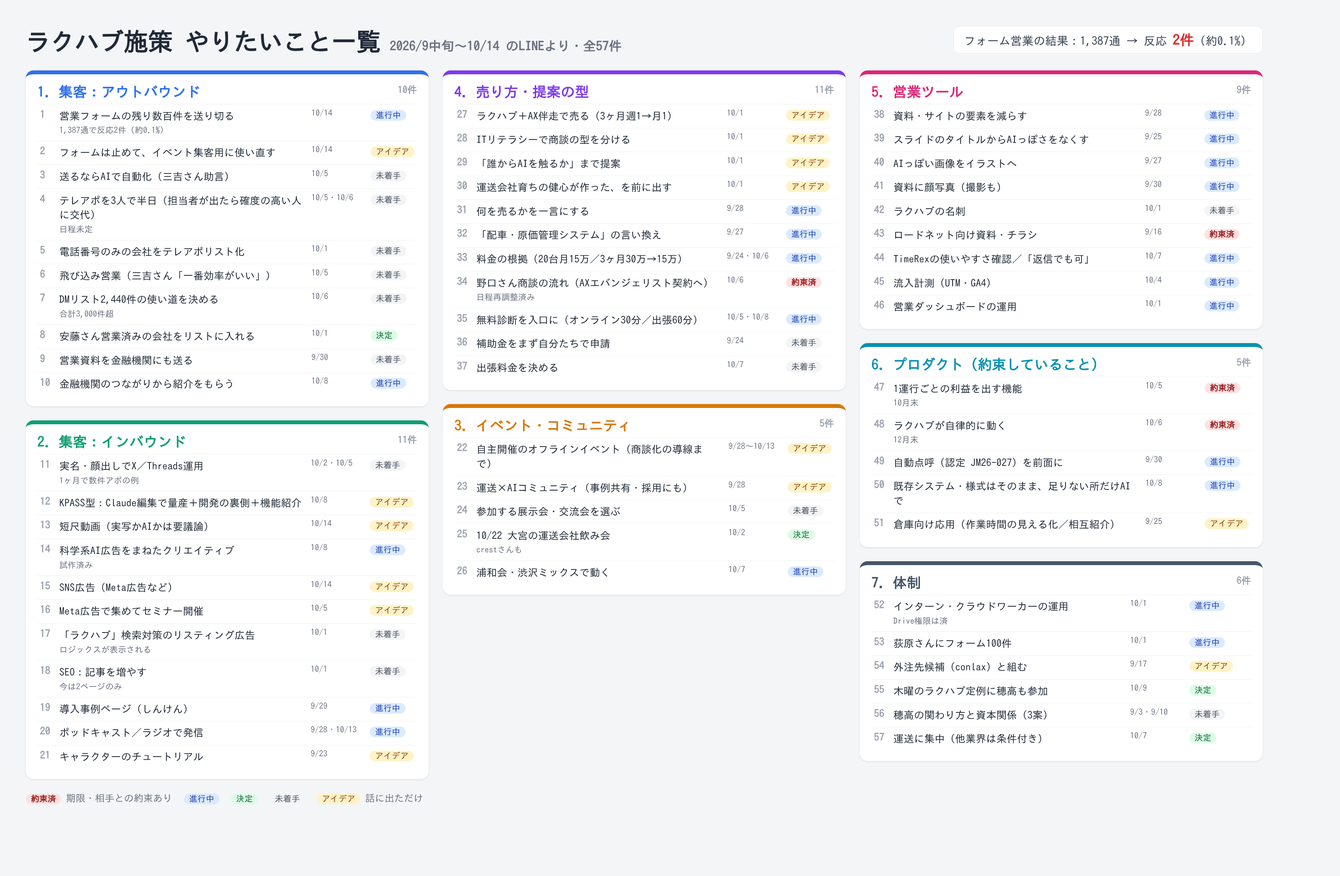
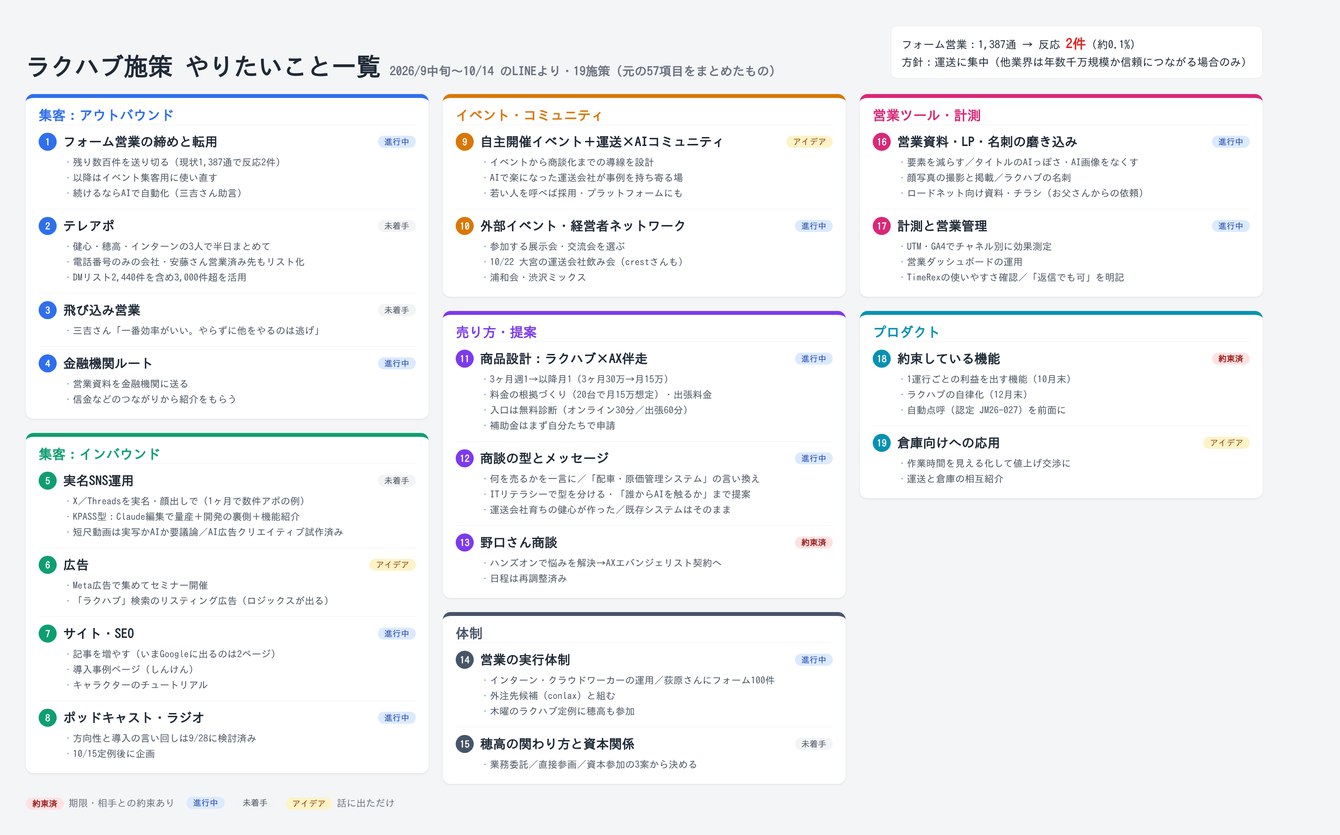
Regroup Rakuhub list into 19 initiatives with details as notes
Claude-Session: https://claude.ai/code/session_01QHjPwhtW9kRAS6qp3uVK7k

diff --git a/rakuhub-list/list.html b/rakuhub-list/list.html
@@ -1,16 +1,18 @@
 <!doctype html><meta charset=utf-8><style>
-*{box-sizing:border-box;margin:0}body{font-family:"IPAGothic","IPAゴシック",sans-serif;background:#f4f5f7;color:#1f2937;padding:40px;width:2000px}
-header{display:flex;justify-content:space-between;align-items:flex-end;margin-bottom:26px}h1{font-size:38px}h1 small{font-size:20px;color:#6b7280;margin-left:14px}
-.kpi{font-size:18px;color:#374151;background:#fff;border:1px solid #e5e7eb;border-radius:10px;padding:10px 16px}.kpi b{color:#dc2626;font-size:22px}
+*{box-sizing:border-box;margin:0;padding:0}body{font-family:"IPAGothic",sans-serif;background:#f4f5f7;color:#1f2937;padding:40px;width:2000px}
+header{display:flex;justify-content:space-between;align-items:flex-end;margin-bottom:24px}h1{font-size:38px}h1 small{font-size:19px;color:#6b7280;margin-left:14px}
+.kpi{font-size:17px;background:#fff;border:1px solid #e5e7eb;border-radius:10px;padding:10px 16px;line-height:1.6}.kpi b{color:#dc2626;font-size:21px}
 .grid{display:grid;grid-template-columns:repeat(3,1fr);gap:22px;align-items:start}.col{display:flex;flex-direction:column;gap:22px}
-section{background:#fff;border-radius:12px;border-top:6px solid var(--c);box-shadow:0 1px 3px rgba(0,0,0,.08);padding:16px 18px}
-h2{font-size:22px;color:var(--c);display:flex;justify-content:space-between;margin-bottom:8px}h2 span{font-size:15px;color:#9ca3af}
-table{width:100%;border-collapse:collapse;font-size:16px}td{padding:7px 4px;border-top:1px solid #f0f1f3;vertical-align:top}
-.n{width:30px;color:#9ca3af;font-weight:bold}.t{line-height:1.4}.m{font-size:13px;color:#6b7280;margin-top:2px}.d{width:92px;font-size:13px;color:#6b7280;white-space:nowrap}
-.s{display:inline-block;font-size:13px;padding:2px 8px;border-radius:99px;white-space:nowrap}
-.done{background:#dcfce7;color:#166534}.doing{background:#dbeafe;color:#1e40af}.todo{background:#f3f4f6;color:#4b5563}.idea{background:#fef3c7;color:#92400e}.must{background:#fee2e2;color:#991b1b;font-weight:bold}
-footer{margin-top:22px;font-size:15px;color:#6b7280;display:flex;gap:18px}
-</style><header><h1>ラクハブ施策 やりたいこと一覧<small>2026/9中旬〜10/14 のLINEより・全57件</small></h1>
-<div class=kpi>フォーム営業の結果：1,387通 → 反応 <b>2件</b>（約0.1%）</div></header>
-<div class=grid><div class=col><section style="--c:#2f6fed"><h2>1. 集客：アウトバウンド<span>10件</span></h2><table><tr><td class=n>1</td><td class=t>営業フォームの残り数百件を送り切る<div class=m>1,387通で反応2件（約0.1%）</div></td><td class=d>10/14</td><td><span class="s doing">進行中</span></td></tr><tr><td class=n>2</td><td class=t>フォームは止めて、イベント集客用に使い直す</td><td class=d>10/14</td><td><span class="s idea">アイデア</span></td></tr><tr><td class=n>3</td><td class=t>送るならAIで自動化（三吉さん助言）</td><td class=d>10/5</td><td><span class="s todo">未着手</span></td></tr><tr><td class=n>4</td><td class=t>テレアポを3人で半日（担当者が出たら確度の高い人に交代）<div class=m>日程未定</div></td><td class=d>10/5・10/6</td><td><span class="s todo">未着手</span></td></tr><tr><td class=n>5</td><td class=t>電話番号のみの会社をテレアポリスト化</td><td class=d>10/1</td><td><span class="s todo">未着手</span></td></tr><tr><td class=n>6</td><td class=t>飛び込み営業（三吉さん「一番効率がいい」）</td><td class=d>10/5</td><td><span class="s todo">未着手</span></td></tr><tr><td class=n>7</td><td class=t>DMリスト2,440件の使い道を決める<div class=m>合計3,000件超</div></td><td class=d>10/6</td><td><span class="s todo">未着手</span></td></tr><tr><td class=n>8</td><td class=t>安藤さん営業済みの会社をリストに入れる</td><td class=d>10/1</td><td><span class="s done">決定</span></td></tr><tr><td class=n>9</td><td class=t>営業資料を金融機関にも送る</td><td class=d>9/30</td><td><span class="s todo">未着手</span></td></tr><tr><td class=n>10</td><td class=t>金融機関のつながりから紹介をもらう</td><td class=d>10/8</td><td><span class="s doing">進行中</span></td></tr></table></section><section style="--c:#0e9f6e"><h2>2. 集客：インバウンド<span>11件</span></h2><table><tr><td class=n>11</td><td class=t>実名・顔出しでX／Threads運用<div class=m>1ヶ月で数件アポの例</div></td><td class=d>10/2・10/5</td><td><span class="s todo">未着手</span></td></tr><tr><td class=n>12</td><td class=t>KPASS型：Claude編集で量産＋開発の裏側＋機能紹介</td><td class=d>10/8</td><td><span class="s idea">アイデア</span></td></tr><tr><td class=n>13</td><td class=t>短尺動画（実写かAIかは要議論）</td><td class=d>10/14</td><td><span class="s idea">アイデア</span></td></tr><tr><td class=n>14</td><td class=t>科学系AI広告をまねたクリエイティブ<div class=m>試作済み</div></td><td class=d>10/8</td><td><span class="s doing">進行中</span></td></tr><tr><td class=n>15</td><td class=t>SNS広告（Meta広告など）</td><td class=d>10/14</td><td><span class="s idea">アイデア</span></td></tr><tr><td class=n>16</td><td class=t>Meta広告で集めてセミナー開催</td><td class=d>10/5</td><td><span class="s idea">アイデア</span></td></tr><tr><td class=n>17</td><td class=t>「ラクハブ」検索対策のリスティング広告<div class=m>ロジックスが表示される</div></td><td class=d>10/1</td><td><span class="s todo">未着手</span></td></tr><tr><td class=n>18</td><td class=t>SEO：記事を増やす<div class=m>今は2ページのみ</div></td><td class=d>10/1</td><td><span class="s todo">未着手</span></td></tr><tr><td class=n>19</td><td class=t>導入事例ページ（しんけん）</td><td class=d>9/29</td><td><span class="s doing">進行中</span></td></tr><tr><td class=n>20</td><td class=t>ポッドキャスト／ラジオで発信</td><td class=d>9/28・10/13</td><td><span class="s doing">進行中</span></td></tr><tr><td class=n>21</td><td class=t>キャラクターのチュートリアル</td><td class=d>9/23</td><td><span class="s idea">アイデア</span></td></tr></table></section></div><div class=col><section style="--c:#7c3aed"><h2>4. 売り方・提案の型<span>11件</span></h2><table><tr><td class=n>27</td><td class=t>ラクハブ＋AX伴走で売る（3ヶ月週1→月1）</td><td class=d>10/1</td><td><span class="s idea">アイデア</span></td></tr><tr><td class=n>28</td><td class=t>ITリテラシーで商談の型を分ける</td><td class=d>10/1</td><td><span class="s idea">アイデア</span></td></tr><tr><td class=n>29</td><td class=t>「誰からAIを触るか」まで提案</td><td class=d>10/1</td><td><span class="s idea">アイデア</span></td></tr><tr><td class=n>30</td><td class=t>運送会社育ちの健心が作った、を前に出す</td><td class=d>10/1</td><td><span class="s idea">アイデア</span></td></tr><tr><td class=n>31</td><td class=t>何を売るかを一言にする</td><td class=d>9/28</td><td><span class="s doing">進行中</span></td></tr><tr><td class=n>32</td><td class=t>「配車・原価管理システム」の言い換え</td><td class=d>9/27</td><td><span class="s doing">進行中</span></td></tr><tr><td class=n>33</td><td class=t>料金の根拠（20台月15万／3ヶ月30万→15万）</td><td class=d>9/24・10/6</td><td><span class="s doing">進行中</span></td></tr><tr><td class=n>34</td><td class=t>野口さん商談の流れ（AXエバンジェリスト契約へ）<div class=m>日程再調整済み</div></td><td class=d>10/6</td><td><span class="s must">約束済</span></td></tr><tr><td class=n>35</td><td class=t>無料診断を入口に（オンライン30分／出張60分）</td><td class=d>10/5・10/8</td><td><span class="s doing">進行中</span></td></tr><tr><td class=n>36</td><td class=t>補助金をまず自分たちで申請</td><td class=d>9/24</td><td><span class="s todo">未着手</span></td></tr><tr><td class=n>37</td><td class=t>出張料金を決める</td><td class=d>10/7</td><td><span class="s todo">未着手</span></td></tr></table></section><section style="--c:#d97706"><h2>3. イベント・コミュニティ<span>5件</span></h2><table><tr><td class=n>22</td><td class=t>自主開催のオフラインイベント（商談化の導線まで）</td><td class=d>9/28〜10/13</td><td><span class="s idea">アイデア</span></td></tr><tr><td class=n>23</td><td class=t>運送×AIコミュニティ（事例共有・採用にも）</td><td class=d>9/28</td><td><span class="s idea">アイデア</span></td></tr><tr><td class=n>24</td><td class=t>参加する展示会・交流会を選ぶ</td><td class=d>10/5</td><td><span class="s todo">未着手</span></td></tr><tr><td class=n>25</td><td class=t>10/22 大宮の運送会社飲み会<div class=m>crestさんも</div></td><td class=d>10/2</td><td><span class="s done">決定</span></td></tr><tr><td class=n>26</td><td class=t>浦和会・渋沢ミックスで動く</td><td class=d>10/7</td><td><span class="s doing">進行中</span></td></tr></table></section></div><div class=col><section style="--c:#db2777"><h2>5. 営業ツール<span>9件</span></h2><table><tr><td class=n>38</td><td class=t>資料・サイトの要素を減らす</td><td class=d>9/28</td><td><span class="s doing">進行中</span></td></tr><tr><td class=n>39</td><td class=t>スライドのタイトルからAIっぽさをなくす</td><td class=d>9/25</td><td><span class="s doing">進行中</span></td></tr><tr><td class=n>40</td><td class=t>AIっぽい画像をイラストへ</td><td class=d>9/27</td><td><span class="s doing">進行中</span></td></tr><tr><td class=n>41</td><td class=t>資料に顔写真（撮影も）</td><td class=d>9/30</td><td><span class="s doing">進行中</span></td></tr><tr><td class=n>42</td><td class=t>ラクハブの名刺</td><td class=d>10/1</td><td><span class="s todo">未着手</span></td></tr><tr><td class=n>43</td><td class=t>ロードネット向け資料・チラシ</td><td class=d>9/16</td><td><span class="s must">約束済</span></td></tr><tr><td class=n>44</td><td class=t>TimeRexの使いやすさ確認／「返信でも可」</td><td class=d>10/7</td><td><span class="s doing">進行中</span></td></tr><tr><td class=n>45</td><td class=t>流入計測（UTM・GA4）</td><td class=d>10/4</td><td><span class="s doing">進行中</span></td></tr><tr><td class=n>46</td><td class=t>営業ダッシュボードの運用</td><td class=d>10/1</td><td><span class="s doing">進行中</span></td></tr></table></section><section style="--c:#0891b2"><h2>6. プロダクト（約束していること）<span>5件</span></h2><table><tr><td class=n>47</td><td class=t>1運行ごとの利益を出す機能<div class=m>10月末</div></td><td class=d>10/5</td><td><span class="s must">約束済</span></td></tr><tr><td class=n>48</td><td class=t>ラクハブが自律的に動く<div class=m>12月末</div></td><td class=d>10/6</td><td><span class="s must">約束済</span></td></tr><tr><td class=n>49</td><td class=t>自動点呼（認定 JM26-027）を前面に</td><td class=d>9/30</td><td><span class="s doing">進行中</span></td></tr><tr><td class=n>50</td><td class=t>既存システム・様式はそのまま、足りない所だけAIで</td><td class=d>10/8</td><td><span class="s doing">進行中</span></td></tr><tr><td class=n>51</td><td class=t>倉庫向け応用（作業時間の見える化／相互紹介）</td><td class=d>9/25</td><td><span class="s idea">アイデア</span></td></tr></table></section><section style="--c:#475569"><h2>7. 体制<span>6件</span></h2><table><tr><td class=n>52</td><td class=t>インターン・クラウドワーカーの運用<div class=m>Drive権限は済</div></td><td class=d>10/1</td><td><span class="s doing">進行中</span></td></tr><tr><td class=n>53</td><td class=t>荻原さんにフォーム100件</td><td class=d>10/1</td><td><span class="s doing">進行中</span></td></tr><tr><td class=n>54</td><td class=t>外注先候補（conlax）と組む</td><td class=d>9/17</td><td><span class="s idea">アイデア</span></td></tr><tr><td class=n>55</td><td class=t>木曜のラクハブ定例に穂高も参加</td><td class=d>10/9</td><td><span class="s done">決定</span></td></tr><tr><td class=n>56</td><td class=t>穂高の関わり方と資本関係（3案）</td><td class=d>9/3・9/10</td><td><span class="s todo">未着手</span></td></tr><tr><td class=n>57</td><td class=t>運送に集中（他業界は条件付き）</td><td class=d>10/7</td><td><span class="s done">決定</span></td></tr></table></section></div></div>
-<footer><span><span class="s must">約束済</span> 期限・相手との約束あり</span><span><span class="s doing">進行中</span></span><span><span class="s done">決定</span></span><span><span class="s todo">未着手</span></span><span><span class="s idea">アイデア</span> 話に出ただけ</span></footer>
+section{background:#fff;border-radius:12px;border-top:6px solid var(--c);box-shadow:0 1px 3px rgba(0,0,0,.08);padding:16px 20px 6px}
+h2{font-size:21px;color:var(--c);margin-bottom:4px}
+.it{padding:12px 0;border-top:1px solid #eef0f2}.hd{display:flex;align-items:center;gap:10px}
+.n{background:var(--c);color:#fff;border-radius:50%;width:28px;height:28px;display:inline-flex;align-items:center;justify-content:center;font-size:15px;font-weight:bold;flex:none}
+.t{font-size:20px;font-weight:bold;flex:1}
+ul{margin:6px 0 0 38px;font-size:15px;color:#4b5563;line-height:1.6;list-style:none}li::before{content:"・";color:#9ca3af}
+.s{font-size:13px;padding:3px 10px;border-radius:99px;white-space:nowrap}
+.doing{background:#dbeafe;color:#1e40af}.todo{background:#f3f4f6;color:#4b5563}.idea{background:#fef3c7;color:#92400e}.must{background:#fee2e2;color:#991b1b;font-weight:bold}
+footer{margin-top:20px;font-size:15px;color:#6b7280;display:flex;gap:18px;align-items:center}
+</style><header><h1>ラクハブ施策 やりたいこと一覧<small>2026/9中旬〜10/14 のLINEより・19施策（元の57項目をまとめたもの）</small></h1>
+<div class=kpi>フォーム営業：1,387通 → 反応 <b>2件</b>（約0.1%）<br>方針：運送に集中（他業界は年数千万規模か信頼につながる場合のみ）</div></header>
+<div class=grid><div class=col><section style="--c:#2f6fed"><h2>集客：アウトバウンド</h2><div class=it><div class=hd><span class=n>1</span><span class=t>フォーム営業の締めと転用</span><span class="s doing">進行中</span></div><ul><li>残り数百件を送り切る（現状1,387通で反応2件）</li><li>以降はイベント集客用に使い直す</li><li>続けるならAIで自動化（三吉さん助言）</li></ul></div><div class=it><div class=hd><span class=n>2</span><span class=t>テレアポ</span><span class="s todo">未着手</span></div><ul><li>健心・穂高・インターンの3人で半日まとめて</li><li>電話番号のみの会社・安藤さん営業済み先もリスト化</li><li>DMリスト2,440件を含め3,000件超を活用</li></ul></div><div class=it><div class=hd><span class=n>3</span><span class=t>飛び込み営業</span><span class="s todo">未着手</span></div><ul><li>三吉さん「一番効率がいい。やらずに他をやるのは逃げ」</li></ul></div><div class=it><div class=hd><span class=n>4</span><span class=t>金融機関ルート</span><span class="s doing">進行中</span></div><ul><li>営業資料を金融機関に送る</li><li>信金などのつながりから紹介をもらう</li></ul></div></section><section style="--c:#0e9f6e"><h2>集客：インバウンド</h2><div class=it><div class=hd><span class=n>5</span><span class=t>実名SNS運用</span><span class="s todo">未着手</span></div><ul><li>X／Threadsを実名・顔出しで（1ヶ月で数件アポの例）</li><li>KPASS型：Claude編集で量産＋開発の裏側＋機能紹介</li><li>短尺動画は実写かAIか要議論／AI広告クリエイティブ試作済み</li></ul></div><div class=it><div class=hd><span class=n>6</span><span class=t>広告</span><span class="s idea">アイデア</span></div><ul><li>Meta広告で集めてセミナー開催</li><li>「ラクハブ」検索のリスティング広告（ロジックスが出る）</li></ul></div><div class=it><div class=hd><span class=n>7</span><span class=t>サイト・SEO</span><span class="s doing">進行中</span></div><ul><li>記事を増やす（いまGoogleに出るのは2ページ）</li><li>導入事例ページ（しんけん）</li><li>キャラクターのチュートリアル</li></ul></div><div class=it><div class=hd><span class=n>8</span><span class=t>ポッドキャスト・ラジオ</span><span class="s doing">進行中</span></div><ul><li>方向性と導入の言い回しは9/28に検討済み</li><li>10/15定例後に企画</li></ul></div></section></div><div class=col><section style="--c:#d97706"><h2>イベント・コミュニティ</h2><div class=it><div class=hd><span class=n>9</span><span class=t>自主開催イベント＋運送×AIコミュニティ</span><span class="s idea">アイデア</span></div><ul><li>イベントから商談化までの導線を設計</li><li>AIで楽になった運送会社が事例を持ち寄る場</li><li>若い人を呼べば採用・プラットフォームにも</li></ul></div><div class=it><div class=hd><span class=n>10</span><span class=t>外部イベント・経営者ネットワーク</span><span class="s doing">進行中</span></div><ul><li>参加する展示会・交流会を選ぶ</li><li>10/22 大宮の運送会社飲み会（crestさんも）</li><li>浦和会・渋沢ミックス</li></ul></div></section><section style="--c:#7c3aed"><h2>売り方・提案</h2><div class=it><div class=hd><span class=n>11</span><span class=t>商品設計：ラクハブ×AX伴走</span><span class="s doing">進行中</span></div><ul><li>3ヶ月週1→以降月1（3ヶ月30万→月15万）</li><li>料金の根拠づくり（20台で月15万想定）・出張料金</li><li>入口は無料診断（オンライン30分／出張60分）</li><li>補助金はまず自分たちで申請</li></ul></div><div class=it><div class=hd><span class=n>12</span><span class=t>商談の型とメッセージ</span><span class="s doing">進行中</span></div><ul><li>何を売るかを一言に／「配車・原価管理システム」の言い換え</li><li>ITリテラシーで型を分ける・「誰からAIを触るか」まで提案</li><li>運送会社育ちの健心が作った／既存システムはそのまま</li></ul></div><div class=it><div class=hd><span class=n>13</span><span class=t>野口さん商談</span><span class="s must">約束済</span></div><ul><li>ハンズオンで悩みを解決→AXエバンジェリスト契約へ</li><li>日程は再調整済み</li></ul></div></section><section style="--c:#475569"><h2>体制</h2><div class=it><div class=hd><span class=n>14</span><span class=t>営業の実行体制</span><span class="s doing">進行中</span></div><ul><li>インターン・クラウドワーカーの運用／荻原さんにフォーム100件</li><li>外注先候補（conlax）と組む</li><li>木曜のラクハブ定例に穂高も参加</li></ul></div><div class=it><div class=hd><span class=n>15</span><span class=t>穂高の関わり方と資本関係</span><span class="s todo">未着手</span></div><ul><li>業務委託／直接参画／資本参加の3案から決める</li></ul></div></section></div><div class=col><section style="--c:#db2777"><h2>営業ツール・計測</h2><div class=it><div class=hd><span class=n>16</span><span class=t>営業資料・LP・名刺の磨き込み</span><span class="s doing">進行中</span></div><ul><li>要素を減らす／タイトルのAIっぽさ・AI画像をなくす</li><li>顔写真の撮影と掲載／ラクハブの名刺</li><li>ロードネット向け資料・チラシ（お父さんからの依頼）</li></ul></div><div class=it><div class=hd><span class=n>17</span><span class=t>計測と営業管理</span><span class="s doing">進行中</span></div><ul><li>UTM・GA4でチャネル別に効果測定</li><li>営業ダッシュボードの運用</li><li>TimeRexの使いやすさ確認／「返信でも可」を明記</li></ul></div></section><section style="--c:#0891b2"><h2>プロダクト</h2><div class=it><div class=hd><span class=n>18</span><span class=t>約束している機能</span><span class="s must">約束済</span></div><ul><li>1運行ごとの利益を出す機能（10月末）</li><li>ラクハブの自律化（12月末）</li><li>自動点呼（認定 JM26-027）を前面に</li></ul></div><div class=it><div class=hd><span class=n>19</span><span class=t>倉庫向けへの応用</span><span class="s idea">アイデア</span></div><ul><li>作業時間を見える化して値上げ交渉に</li><li>運送と倉庫の相互紹介</li></ul></div></section></div></div>
+<footer><span><span class="s must">約束済</span> 期限・相手との約束あり</span><span class="s doing">進行中</span><span class="s todo">未着手</span><span><span class="s idea">アイデア</span> 話に出ただけ</span></footer>

diff --git a/rakuhub-list/gen.py b/rakuhub-list/gen.py
@@ -1,96 +1,66 @@
 import html
-S={'済':'done','進行中':'doing','未着手':'todo','アイデア':'idea','決定':'done','約束済':'must'}
+S={'進行中':'doing','未着手':'todo','アイデア':'idea','約束済':'must'}
 cats=[
-("1. 集客：アウトバウンド","#2f6fed",[
-(1,"営業フォームの残り数百件を送り切る","10/14","進行中","1,387通で反応2件（約0.1%）"),
-(2,"フォームは止めて、イベント集客用に使い直す","10/14","アイデア",""),
-(3,"送るならAIで自動化（三吉さん助言）","10/5","未着手",""),
-(4,"テレアポを3人で半日（担当者が出たら確度の高い人に交代）","10/5・10/6","未着手","日程未定"),
-(5,"電話番号のみの会社をテレアポリスト化","10/1","未着手",""),
-(6,"飛び込み営業（三吉さん「一番効率がいい」）","10/5","未着手",""),
-(7,"DMリスト2,440件の使い道を決める","10/6","未着手","合計3,000件超"),
-(8,"安藤さん営業済みの会社をリストに入れる","10/1","決定",""),
-(9,"営業資料を金融機関にも送る","9/30","未着手",""),
-(10,"金融機関のつながりから紹介をもらう","10/8","進行中",""),
+("集客：アウトバウンド","#2f6fed",[
+("フォーム営業の締めと転用","進行中",["残り数百件を送り切る（現状1,387通で反応2件）","以降はイベント集客用に使い直す","続けるならAIで自動化（三吉さん助言）"]),
+("テレアポ","未着手",["健心・穂高・インターンの3人で半日まとめて","電話番号のみの会社・安藤さん営業済み先もリスト化","DMリスト2,440件を含め3,000件超を活用"]),
+("飛び込み営業","未着手",["三吉さん「一番効率がいい。やらずに他をやるのは逃げ」"]),
+("金融機関ルート","進行中",["営業資料を金融機関に送る","信金などのつながりから紹介をもらう"]),
 ]),
-("2. 集客：インバウンド","#0e9f6e",[
-(11,"実名・顔出しでX／Threads運用","10/2・10/5","未着手","1ヶ月で数件アポの例"),
-(12,"KPASS型：Claude編集で量産＋開発の裏側＋機能紹介","10/8","アイデア",""),
-(13,"短尺動画（実写かAIかは要議論）","10/14","アイデア",""),
-(14,"科学系AI広告をまねたクリエイティブ","10/8","進行中","試作済み"),
-(15,"SNS広告（Meta広告など）","10/14","アイデア",""),
-(16,"Meta広告で集めてセミナー開催","10/5","アイデア",""),
-(17,"「ラクハブ」検索対策のリスティング広告","10/1","未着手","ロジックスが表示される"),
-(18,"SEO：記事を増やす","10/1","未着手","今は2ページのみ"),
-(19,"導入事例ページ（しんけん）","9/29","進行中",""),
-(20,"ポッドキャスト／ラジオで発信","9/28・10/13","進行中",""),
-(21,"キャラクターのチュートリアル","9/23","アイデア",""),
+("集客：インバウンド","#0e9f6e",[
+("実名SNS運用","未着手",["X／Threadsを実名・顔出しで（1ヶ月で数件アポの例）","KPASS型：Claude編集で量産＋開発の裏側＋機能紹介","短尺動画は実写かAIか要議論／AI広告クリエイティブ試作済み"]),
+("広告","アイデア",["Meta広告で集めてセミナー開催","「ラクハブ」検索のリスティング広告（ロジックスが出る）"]),
+("サイト・SEO","進行中",["記事を増やす（いまGoogleに出るのは2ページ）","導入事例ページ（しんけん）","キャラクターのチュートリアル"]),
+("ポッドキャスト・ラジオ","進行中",["方向性と導入の言い回しは9/28に検討済み","10/15定例後に企画"]),
 ]),
-("3. イベント・コミュニティ","#d97706",[
-(22,"自主開催のオフラインイベント（商談化の導線まで）","9/28〜10/13","アイデア",""),
-(23,"運送×AIコミュニティ（事例共有・採用にも）","9/28","アイデア",""),
-(24,"参加する展示会・交流会を選ぶ","10/5","未着手",""),
-(25,"10/22 大宮の運送会社飲み会","10/2","決定","crestさんも"),
-(26,"浦和会・渋沢ミックスで動く","10/7","進行中",""),
+("イベント・コミュニティ","#d97706",[
+("自主開催イベント＋運送×AIコミュニティ","アイデア",["イベントから商談化までの導線を設計","AIで楽になった運送会社が事例を持ち寄る場","若い人を呼べば採用・プラットフォームにも"]),
+("外部イベント・経営者ネットワーク","進行中",["参加する展示会・交流会を選ぶ","10/22 大宮の運送会社飲み会（crestさんも）","浦和会・渋沢ミックス"]),
 ]),
-("4. 売り方・提案の型","#7c3aed",[
-(27,"ラクハブ＋AX伴走で売る（3ヶ月週1→月1）","10/1","アイデア",""),
-(28,"ITリテラシーで商談の型を分ける","10/1","アイデア",""),
-(29,"「誰からAIを触るか」まで提案","10/1","アイデア",""),
-(30,"運送会社育ちの健心が作った、を前に出す","10/1","アイデア",""),
-(31,"何を売るかを一言にする","9/28","進行中",""),
-(32,"「配車・原価管理システム」の言い換え","9/27","進行中",""),
-(33,"料金の根拠（20台月15万／3ヶ月30万→15万）","9/24・10/6","進行中",""),
-(34,"野口さん商談の流れ（AXエバンジェリスト契約へ）","10/6","約束済","日程再調整済み"),
-(35,"無料診断を入口に（オンライン30分／出張60分）","10/5・10/8","進行中",""),
-(36,"補助金をまず自分たちで申請","9/24","未着手",""),
-(37,"出張料金を決める","10/7","未着手",""),
+("売り方・提案","#7c3aed",[
+("商品設計：ラクハブ×AX伴走","進行中",["3ヶ月週1→以降月1（3ヶ月30万→月15万）","料金の根拠づくり（20台で月15万想定）・出張料金","入口は無料診断（オンライン30分／出張60分）","補助金はまず自分たちで申請"]),
+("商談の型とメッセージ","進行中",["何を売るかを一言に／「配車・原価管理システム」の言い換え","ITリテラシーで型を分ける・「誰からAIを触るか」まで提案","運送会社育ちの健心が作った／既存システムはそのまま"]),
+("野口さん商談","約束済",["ハンズオンで悩みを解決→AXエバンジェリスト契約へ","日程は再調整済み"]),
 ]),
-("5. 営業ツール","#db2777",[
-(38,"資料・サイトの要素を減らす","9/28","進行中",""),
-(39,"スライドのタイトルからAIっぽさをなくす","9/25","進行中",""),
-(40,"AIっぽい画像をイラストへ","9/27","進行中",""),
-(41,"資料に顔写真（撮影も）","9/30","進行中",""),
-(42,"ラクハブの名刺","10/1","未着手",""),
-(43,"ロードネット向け資料・チラシ","9/16","約束済",""),
-(44,"TimeRexの使いやすさ確認／「返信でも可」","10/7","進行中",""),
-(45,"流入計測（UTM・GA4）","10/4","進行中",""),
-(46,"営業ダッシュボードの運用","10/1","進行中",""),
+("営業ツール・計測","#db2777",[
+("営業資料・LP・名刺の磨き込み","進行中",["要素を減らす／タイトルのAIっぽさ・AI画像をなくす","顔写真の撮影と掲載／ラクハブの名刺","ロードネット向け資料・チラシ（お父さんからの依頼）"]),
+("計測と営業管理","進行中",["UTM・GA4でチャネル別に効果測定","営業ダッシュボードの運用","TimeRexの使いやすさ確認／「返信でも可」を明記"]),
 ]),
-("6. プロダクト（約束していること）","#0891b2",[
-(47,"1運行ごとの利益を出す機能","10/5","約束済","10月末"),
-(48,"ラクハブが自律的に動く","10/6","約束済","12月末"),
-(49,"自動点呼（認定 JM26-027）を前面に","9/30","進行中",""),
-(50,"既存システム・様式はそのまま、足りない所だけAIで","10/8","進行中",""),
-(51,"倉庫向け応用（作業時間の見える化／相互紹介）","9/25","アイデア",""),
+("プロダクト","#0891b2",[
+("約束している機能","約束済",["1運行ごとの利益を出す機能（10月末）","ラクハブの自律化（12月末）","自動点呼（認定 JM26-027）を前面に"]),
+("倉庫向けへの応用","アイデア",["作業時間を見える化して値上げ交渉に","運送と倉庫の相互紹介"]),
 ]),
-("7. 体制","#475569",[
-(52,"インターン・クラウドワーカーの運用","10/1","進行中","Drive権限は済"),
-(53,"荻原さんにフォーム100件","10/1","進行中",""),
-(54,"外注先候補（conlax）と組む","9/17","アイデア",""),
-(55,"木曜のラクハブ定例に穂高も参加","10/9","決定",""),
-(56,"穂高の関わり方と資本関係（3案）","9/3・9/10","未着手",""),
-(57,"運送に集中（他業界は条件付き）","10/7","決定",""),
+("体制","#475569",[
+("営業の実行体制","進行中",["インターン・クラウドワーカーの運用／荻原さんにフォーム100件","外注先候補（conlax）と組む","木曜のラクハブ定例に穂高も参加"]),
+("穂高の関わり方と資本関係","未着手",["業務委託／直接参画／資本参加の3案から決める"]),
 ]),
 ]
+n=0
 def card(t,c,items):
-  rows="".join(f'<tr><td class=n>{n}</td><td class=t>{html.escape(x)}{f"<div class=m>{html.escape(m)}</div>" if m else ""}</td><td class=d>{d}</td><td><span class="s {S[s]}">{s}</span></td></tr>' for n,x,d,s,m in items)
-  return f'<section style="--c:{c}"><h2>{t}<span>{len(items)}件</span></h2><table>{rows}</table></section>'
-cols=[[0,1],[3,2],[4,5,6]]
+  global n
+  rows=""
+  for name,s,notes in items:
+    n+=1
+    li="".join(f"<li>{html.escape(x)}</li>" for x in notes)
+    rows+=f'<div class=it><div class=hd><span class=n>{n}</span><span class=t>{html.escape(name)}</span><span class="s {S[s]}">{s}</span></div><ul>{li}</ul></div>'
+  return f'<section style="--c:{c}"><h2>{t}</h2>{rows}</section>'
+cols=[[0,1],[2,3,6],[4,5]]
 body="".join("<div class=col>"+"".join(card(*cats[i]) for i in col)+"</div>" for col in cols)
 open("list.html","w").write(f'''<!doctype html><meta charset=utf-8><style>
-*{{box-sizing:border-box;margin:0}}body{{font-family:"IPAGothic","IPAゴシック",sans-serif;background:#f4f5f7;color:#1f2937;padding:40px;width:2000px}}
-header{{display:flex;justify-content:space-between;align-items:flex-end;margin-bottom:26px}}h1{{font-size:38px}}h1 small{{font-size:20px;color:#6b7280;margin-left:14px}}
-.kpi{{font-size:18px;color:#374151;background:#fff;border:1px solid #e5e7eb;border-radius:10px;padding:10px 16px}}.kpi b{{color:#dc2626;font-size:22px}}
+*{{box-sizing:border-box;margin:0;padding:0}}body{{font-family:"IPAGothic",sans-serif;background:#f4f5f7;color:#1f2937;padding:40px;width:2000px}}
+header{{display:flex;justify-content:space-between;align-items:flex-end;margin-bottom:24px}}h1{{font-size:38px}}h1 small{{font-size:19px;color:#6b7280;margin-left:14px}}
+.kpi{{font-size:17px;background:#fff;border:1px solid #e5e7eb;border-radius:10px;padding:10px 16px;line-height:1.6}}.kpi b{{color:#dc2626;font-size:21px}}
 .grid{{display:grid;grid-template-columns:repeat(3,1fr);gap:22px;align-items:start}}.col{{display:flex;flex-direction:column;gap:22px}}
-section{{background:#fff;border-radius:12px;border-top:6px solid var(--c);box-shadow:0 1px 3px rgba(0,0,0,.08);padding:16px 18px}}
-h2{{font-size:22px;color:var(--c);display:flex;justify-content:space-between;margin-bottom:8px}}h2 span{{font-size:15px;color:#9ca3af}}
-table{{width:100%;border-collapse:collapse;font-size:16px}}td{{padding:7px 4px;border-top:1px solid #f0f1f3;vertical-align:top}}
-.n{{width:30px;color:#9ca3af;font-weight:bold}}.t{{line-height:1.4}}.m{{font-size:13px;color:#6b7280;margin-top:2px}}.d{{width:92px;font-size:13px;color:#6b7280;white-space:nowrap}}
-.s{{display:inline-block;font-size:13px;padding:2px 8px;border-radius:99px;white-space:nowrap}}
-.done{{background:#dcfce7;color:#166534}}.doing{{background:#dbeafe;color:#1e40af}}.todo{{background:#f3f4f6;color:#4b5563}}.idea{{background:#fef3c7;color:#92400e}}.must{{background:#fee2e2;color:#991b1b;font-weight:bold}}
-footer{{margin-top:22px;font-size:15px;color:#6b7280;display:flex;gap:18px}}
-</style><header><h1>ラクハブ施策 やりたいこと一覧<small>2026/9中旬〜10/14 のLINEより・全57件</small></h1>
-<div class=kpi>フォーム営業の結果：1,387通 → 反応 <b>2件</b>（約0.1%）</div></header>
+section{{background:#fff;border-radius:12px;border-top:6px solid var(--c);box-shadow:0 1px 3px rgba(0,0,0,.08);padding:16px 20px 6px}}
+h2{{font-size:21px;color:var(--c);margin-bottom:4px}}
+.it{{padding:12px 0;border-top:1px solid #eef0f2}}.hd{{display:flex;align-items:center;gap:10px}}
+.n{{background:var(--c);color:#fff;border-radius:50%;width:28px;height:28px;display:inline-flex;align-items:center;justify-content:center;font-size:15px;font-weight:bold;flex:none}}
+.t{{font-size:20px;font-weight:bold;flex:1}}
+ul{{margin:6px 0 0 38px;font-size:15px;color:#4b5563;line-height:1.6;list-style:none}}li::before{{content:"・";color:#9ca3af}}
+.s{{font-size:13px;padding:3px 10px;border-radius:99px;white-space:nowrap}}
+.doing{{background:#dbeafe;color:#1e40af}}.todo{{background:#f3f4f6;color:#4b5563}}.idea{{background:#fef3c7;color:#92400e}}.must{{background:#fee2e2;color:#991b1b;font-weight:bold}}
+footer{{margin-top:20px;font-size:15px;color:#6b7280;display:flex;gap:18px;align-items:center}}
+</style><header><h1>ラクハブ施策 やりたいこと一覧<small>2026/9中旬〜10/14 のLINEより・{n}施策（元の57項目をまとめたもの）</small></h1>
+<div class=kpi>フォーム営業：1,387通 → 反応 <b>2件</b>（約0.1%）<br>方針：運送に集中（他業界は年数千万規模か信頼につながる場合のみ）</div></header>
 <div class=grid>{body}</div>
-<footer><span><span class="s must">約束済</span> 期限・相手との約束あり</span><span><span class="s doing">進行中</span></span><span><span class="s done">決定</span></span><span><span class="s todo">未着手</span></span><span><span class="s idea">アイデア</span> 話に出ただけ</span></footer>''')
+<footer><span><span class="s must">約束済</span> 期限・相手との約束あり</span><span class="s doing">進行中</span><span class="s todo">未着手</span><span><span class="s idea">アイデア</span> 話に出ただけ</span></footer>''')
